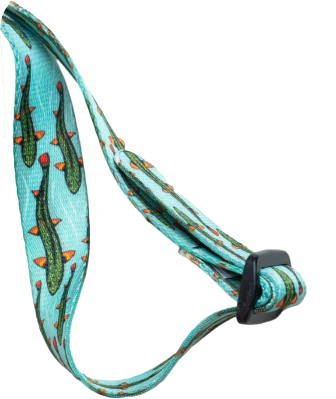
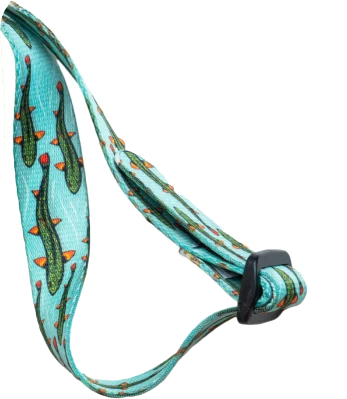
v2 strap photos: cover the cream strap more widely so no outline shows
The white patch under each Mtn strap picture now reaches 30px past the cream strap
(was 4px), so its outline no longer shows faintly once the browser shrinks the photo.
Still TEST product only.

Changed region(s): [[0.0298, 0.0, 0.9226, 1.0], [0.0298, 0.0602, 0.0595, 0.0902]]

diff --git a/v2/grasssticks.js b/v2/grasssticks.js
@@ -200,16 +200,16 @@ Ecwid.OnAPILoaded.add(function () {
     var STRAP_PHOTO_PRODUCTS = [865875809];
     var STRAP_PHOTO_SIZE = { width: '3052', height: '6972' };
     var STRAP_PHOTOS = {
-        'Bridgers':       { file: 'bridgers.webp', box: [0.51278, 0.03701, 0.27588, 0.14716] },
-        'Dark Side':      { file: 'dark-side.webp', box: [0.51278, 0.03758, 0.27588, 0.15132] },
-        'Flow':           { file: 'flow.webp', box: [0.51278, 0.03772, 0.27588, 0.14329] },
-        'Idaho 9':        { file: 'idaho-9.webp', box: [0.51278, 0.03873, 0.27687, 0.14013] },
-        'Lone Peak':      { file: 'lone-peak.webp', box: [0.51278, 0.0383, 0.28145, 0.13052] },
+        'Bridgers':       { file: 'bridgers.webp', box: [0.51278, 0.03701, 0.2844, 0.14716] },
+        'Dark Side':      { file: 'dark-side.webp', box: [0.51278, 0.03758, 0.2844, 0.15132] },
+        'Flow':           { file: 'flow.webp', box: [0.51278, 0.03772, 0.2844, 0.14329] },
+        'Idaho 9':        { file: 'idaho-9.webp', box: [0.51278, 0.03873, 0.2844, 0.14013] },
+        'Lone Peak':      { file: 'lone-peak.webp', box: [0.51278, 0.0383, 0.2844, 0.13052] },
         'Mount Tam':      { file: 'mount-tam.webp', box: [0.51278, 0.0403, 0.29653, 0.1321] },
-        'Purple Haze':    { file: 'purple-haze.webp', box: [0.51278, 0.03701, 0.28375, 0.1562] },
-        'Spanish Peaks':  { file: 'spanish-peaks.webp', box: [0.51278, 0.03571, 0.27588, 0.14859] },
-        'Teton':          { file: 'teton.webp', box: [0.51278, 0.03858, 0.27588, 0.15146] },
-        'The Grand':      { file: 'the-grand.webp', box: [0.51278, 0.03815, 0.27588, 0.15333] },
+        'Purple Haze':    { file: 'purple-haze.webp', box: [0.51278, 0.03701, 0.2844, 0.1562] },
+        'Spanish Peaks':  { file: 'spanish-peaks.webp', box: [0.51278, 0.03571, 0.2844, 0.14859] },
+        'Teton':          { file: 'teton.webp', box: [0.51278, 0.03858, 0.2844, 0.15146] },
+        'The Grand':      { file: 'the-grand.webp', box: [0.51278, 0.03815, 0.2844, 0.15333] },
         'Wasatch Front':  { file: 'wasatch-front.webp', box: [0.51278, 0.04002, 0.29161, 0.1463] }
     };
 
